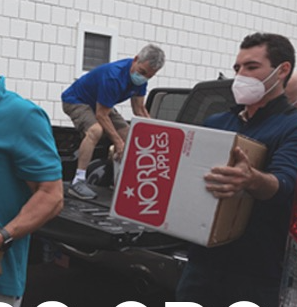
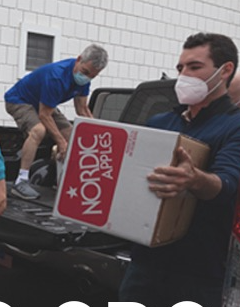
Style and position hero

diff --git a/app/ui/home/hero.jsx b/app/ui/home/hero.jsx
@@ -1,41 +1,49 @@
+"use client";
+
 import Link from "next/link";
 import Image from "next/image";
 import { ChevronDownIcon as DownArrow } from "@heroicons/react/24/outline";
 import backgroundImg from "@/public/volunteers-vert.png";
+import { useContext } from "react";
+import { MaxWidthContext } from "@/app/utils/max-width-context";
 
 export default function Hero() {
+  const maxWidth = useContext(MaxWidthContext);
   return (
-    <section className="relative w-full text-white">
+    <section
+      className={`relative w-full text-white ${maxWidth} h-[92svh] max-h-[1000px]`}
+    >
       <Image
         src={backgroundImg}
         alt="Volunteers unloading boxes."
         className="absolute top-0 h-full w-full opacity-20"
       />
-      <div className="relative flex h-[92svh] flex-col justify-between p-4 pt-8">
-        <h1 className="flex flex-wrap gap-2 text-3xl">
+      <div className="relative flex h-full flex-col justify-between p-4">
+        <h1 className="my-14 flex flex-col flex-wrap items-start gap-2 text-3xl font-medium">
           <span>The</span>
           <span className="rounded bg-white px-1 text-red-600">Branford</span>
           <span>volunteer&nbsp;hub</span>
         </h1>
-        <p className="font-semi">
-          With hundreds of organizations in town, it can be hard to know where
-          to start. We&apos;re here to help you find the perfect fit.
+        <p className="text-pretty font-semibold">
+          With hundreds of organizations in town, <br />
+          it can be hard to know where to start. <br />
+          We&apos;re here to help you find the perfect fit.
         </p>
-        <div className="flex justify-center gap-5">
+        <div className="flex flex-wrap justify-center gap-x-6 gap-y-5 text-center text-xl font-semibold">
           <Link
-            className="rounded-lg border-2 border-white px-5 py-3 text-lg text-white"
+            className="flex-grow rounded-lg border-2 border-white px-5 py-3 text-white"
             href="/"
           >
             Learn More
           </Link>
           <Link
-            className="rounded-lg border bg-white px-5 py-3 text-lg text-branford-700"
+            className="flex-grow rounded-lg border bg-white px-5 py-3 text-branford-600"
             href="/"
           >
             Get Started
           </Link>
         </div>
-        <div className="w-16 self-center">
+        <div className="w-12 self-center">
           <DownArrow className="stroke-white" />
         </div>
       </div>

diff --git a/app/ui/header/header.jsx b/app/ui/header/header.jsx
@@ -1,6 +1,5 @@
 "use client";
 
-import clsx from "clsx";
 import { useContext } from "react";
 import { MaxWidthContext } from "@/app/utils/max-width-context";
 import DesktopNav from "./desktop-nav";
@@ -14,11 +13,12 @@ export default function Header() {
   const breakpoint = "lg";
   const hideAt = `${breakpoint}:hidden`;
   const displayAt = `${breakpoint}:flex`;
+  const headerHeight = `${breakpoint}:h-20`;
 
   return (
     <header className="bg-branford-600 text-branford-50">
       <div
-        className={clsx(`mx-auto flex min-h-16 justify-between ${maxWidth}`)}
+        className={`mx-auto flex min-h-16 justify-between ${headerHeight} ${maxWidth}`}
       >
         <MobileSearch hideAt={hideAt} />
         <HomeLogo />

diff --git a/app/ui/header/home-logo.jsx b/app/ui/header/home-logo.jsx
@@ -4,8 +4,12 @@ import Link from "next/link";
 
 export default function HomeLogo() {
   return (
-    <Link href="/" className="flex items-center">
-      <Image src={logo} alt="Branford Volunteers logo" className="w-60" />
+    <Link href="/" className="flex items-center lg:mx-3">
+      <Image
+        src={logo}
+        alt="Branford Volunteers logo"
+        className="w-60 lg:w-80"
+      />
     </Link>
   );
 }

diff --git a/app/ui/header/desktop-nav.jsx b/app/ui/header/desktop-nav.jsx
@@ -2,7 +2,7 @@ import NavLinks from "./nav-links";
 
 export default function DesktopNav({ displayAt }) {
   return (
-    <div className={`ml-16 mr-10 hidden items-center gap-16 ${displayAt}`}>
+    <div className={`ml-auto mr-10 hidden items-center gap-16 ${displayAt}`}>
       <NavLinks />
     </div>
   );

diff --git a/app/page.tsx b/app/page.tsx
@@ -2,7 +2,7 @@ import Hero from "./ui/home/hero";
 
 export default function Home() {
   return (
-    <main className="flex flex-1">
+    <main className="flex flex-1 justify-center">
       <Hero />
     </main>
   );
